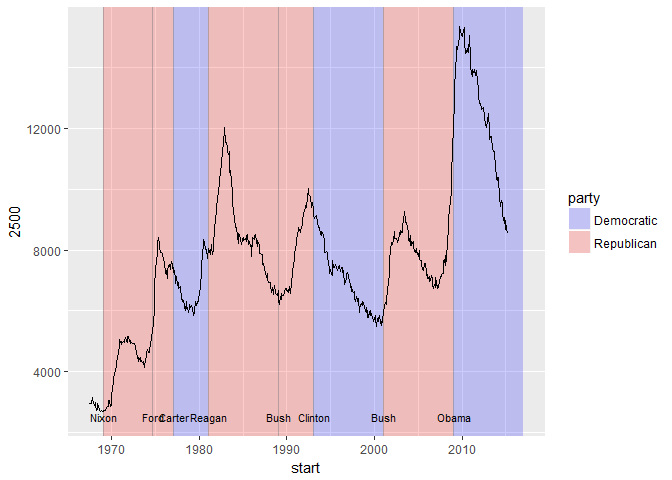
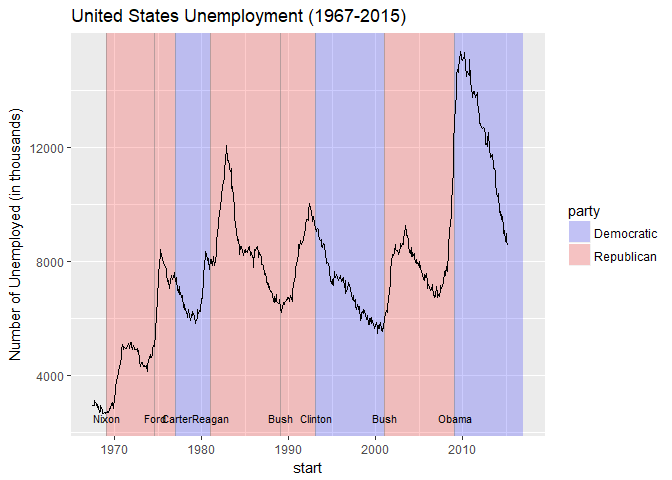
- japan PM edit upload

diff --git a/_posts/2017-09-05-japan-unemploy-pm.md b/_posts/2017-09-05-japan-unemploy-pm.md
@@ -1,20 +1,15 @@
----
-layout: post
-title: "Japanese Prime Ministers and Unemployment Rate: A Timeline."
----
-
-Simple visualizations with ggplot2.
+Simple graphing with ggplot2.
 -----------------------------
 
-I was flipping through Hadley Wickham's *ggplot2* book the other day when I came across this:
+I was flipping through Hadley Wickham's *ggplot2* book the other day when I came across this (I added axis labels and title for clarity):
 
 ![](../assets/2017-09-05-japan-unemploy-pm_files/hadleys-plot-1.png)
 
 Which shows the unemployment data for the USA from 1967 to 2015 along with the Presidents in power during those periods (and their respective political parties). A very simple but poignant graph that (with added historical narrative) can tell us a lot about different stories about the US economy and the politics driving them! Motivated by this I set out to make a similar graph but with data from my birth country, Japan.
 
-I was able to download a dataset from the [Federal Reserve Bank of St. Louis](https://fred.stlouisfed.org/series/LRHUTTTTJPM156S) website for the unemployment data. It's a really fantastic source with loads of raw data from around the world that you can download (in Excel, .csv, .png, PowerPoint, and .pdf formats), and I will definitely be coming back here for other articles! This dataset comprises of the harmonized monthly unemployment rate for all Japanese people since 1960, which was good because I wanted a dataset that could shed light on Japan's post-war economic history and recovery. For a more in-depth analysis I would hunt down some Japanese sources which would include other economic metrics but for today we are just focusing on making a simple visualization with **ggplot2**.
+For the unemployment data, I was able to download a dataset from the [Federal Reserve Bank of St. Louis](https://fred.stlouisfed.org/series/LRHUTTTTJPM156S) website. It's a really fantastic source with loads of raw data from around the world that you can download (in Excel, .csv, .png, PowerPoint, and .pdf formats), I will definitely be coming back here for other articles! This dataset comprises of the harmonized monthly unemployment rate for ALL persons in Japan. There was another dataset for Aged 15-64 however that one only went back to January of 1970. I wanted to go back to 1960 (or better 1945) for a better look at Japan's post-war history and economic recovery so I went with this one instead. For a more in-depth analysis I would hunt down some Japanese sources but for today we are just focusing on the simple **ggplot2** graph.
 
-For the dataset about the Prime Ministers of Japan I went to Wikipedia, a source that's pretty reliable and easy to use. Normally, I would web-scrape the information using **rvest** however, I did not know how to scrap multiple tables at once (as the Prime Ministers were divided into individual tables according to the reigning Emperor) so I created it manually. Thankfully this didn't take too long!
+For the dataset about the Prime Ministers of Japan I went to Wikipedia, a source that's pretty reliable and easy to use. Normally, I would web-scrape the information using the **rvest** package however, I did not know how to scrap multiple tables at once (as the Prime Ministers were divided into individual tables according to the reigning Emperor) so I created it manually. Thankfully this didn't take too long!
 
 ``` r
 prime_ministers <- data.frame(
@@ -45,11 +40,11 @@ prime_ministers <- data.frame(
 )
 ```
 
-With that out of the way we can load the unemployment data set and set about tidying out the raw data.
+With that out of the way we can load the unemployment data set and set about tidying the raw data.
 
 ``` r
 # load data ---------------------------------------------------------------
-japan_unemploy <- read.csv("~/R_materials/Misc.ProjectsTutorials/japan_pm/LRUNTTTTJPM156S.csv", 
+japan_unemploy <- read.csv("~/R_materials/japan_pm/LRUNTTTTJPM156S.csv", 
                            header = TRUE, stringsAsFactors = FALSE)
 library(tibble)
 glimpse(japan_unemploy)   # glimpse() is similar to using str() but tidier
@@ -60,7 +55,7 @@ glimpse(japan_unemploy)   # glimpse() is similar to using str() but tidier
     ## $ DATE            <chr> "1960-01-01", "1960-02-01", "1960-03-01", "196...
     ## $ LRUNTTTTJPM156S <dbl> 1.9, 1.7, 1.7, 1.7, 1.7, 1.6, 1.5, 1.6, 1.6, 1...
 
-We can see here that the dates are in character format and that the column names are in all caps. We can convert the dates using the `as.Date()` function included in base R and change the column names to lower case using the `str_lower()` function from the **stringr** package:
+We can see here that the dates are in **character** format and that the column names are in all caps. We can convert the dates using the `as.Date()` function included in base R and change the column names to lower case using the `str_lower()` function from the **stringr** package:
 
 ``` r
 library(stringr)
@@ -138,7 +133,7 @@ japan_unemploy %>%
   theme_bw()
 ```
 
-![](../assets/2017-09-05-japan-unemploy-pm_files/first-plot-1.png)
+<img src="../assets/2017-09-05-japan-unemploy-pm_files/first-plot-1.png" style="display: block; margin: auto;" />
 
 Looking at this graph, even with using `geom_text_repel()` there are too many Prime Ministers for it to look nice. This speaks for the highly turbulent "revolving door" of politics in Japan, especially in times of economic downturns such as in the 1990s and early 2000s (although many were caught in unrelated scandals or other kerfluffles too...).
 
@@ -151,7 +146,7 @@ To unclutter our graph, let's only show Prime Ministers whose term exceeded 2 ye
     ## Time differences in days
     ## [1]  291  219 2247  744   64 1240 1574 2797
 
-By subtracting the starting dates from end dates we can calculate the length of each Prime Minister's term in days. The PM that lasted **64** days as shown is [Tanzan Ishibashi](https://en.wikipedia.org/wiki/Tanzan_Ishibashi), who unfortunately was incapacitated by stroke. Others such as [Sosuke Uno](https://en.wikipedia.org/wiki/S%C5%8Dsuke_Uno) (**68** days) resigned in more acrimonious terms (allegations of an extramarital affair with a **geisha** leading to a terrible performance in the subsequent election! Details can be read in *Secrets, Sex, and Spectacle: The Rules of Scandal in Japan and the United States* by Mark West if you're **really** curious).
+By subtracting the starting dates from end dates we can calculate the length of each Prime Minister's term in days. The PM that lasted **64** days as shown is [Tanzan Ishibashi](https://en.wikipedia.org/wiki/Tanzan_Ishibashi), who unfortunately was incapacitated by stroke. Others such as [S&\#333suke Uno](https://en.wikipedia.org/wiki/S%C5%8Dsuke_Uno) (**68** days) resigned in more acrimonious terms (allegations of an extramarital affair with a **geisha** leading to a terrible performance in the subsequent election! Details can be read in *Secrets, Sex, and Spectacle: The Rules of Scandal in Japan and the United States* by Mark West if you're **really** curious).
 
 Now we just have to use mutate() to add this data into a new column:
 
@@ -192,7 +187,7 @@ japan_unemploy %>%
   theme_bw()
 ```
 
-![](../assets/2017-09-05-japan-unemploy-pm_files/plot-again-1.png)
+<img src="../assets/2017-09-05-japan-unemploy-pm_files/plot-again-1.png" style="display: block; margin: auto;" />
 
 Much better! I wanted to fill in the spaces of the terms with the political parties, however, most of the Prime Ministers came from the Liberal Democratic Party or LDP (Jimintō in Japanese) which dominated Japanese politics from 1955 to all the way to 1993! Also with so many segments of PMs it wouldn't look as pretty as Hadley's graph.
 
